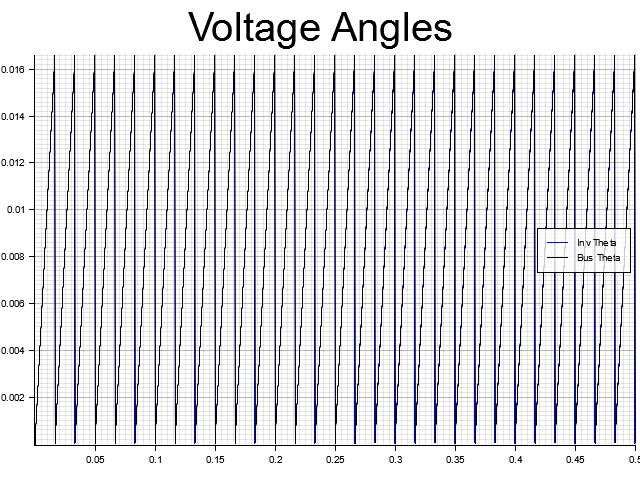
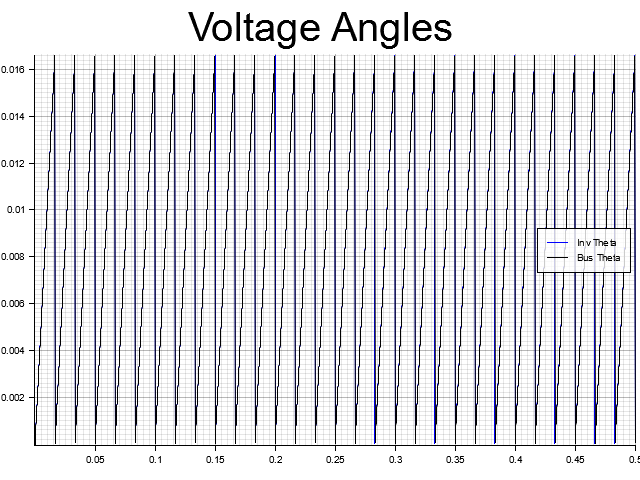
Test sims with 22-bit fractional 32-bit fixed-point dVOC states

diff --git a/src/main.rs b/src/main.rs
@@ -10,7 +10,7 @@ use unifi_gfm::sims::*;
 use unifi_gfm::constants::*;
 use fixed::traits::FromFixed;
 type FxdSim = fixed::types::I38F26;
-type FxdNum = fixed::types::I38F26; // TODO: Test with 32-bit fixed-point number and figure out what is overflowing (Seems to be related to current dynamics)
+type FxdNum = fixed::types::I10F22; // TODO: Test with 32-bit fixed-point number and figure out what is overflowing (Seems to be related to current dynamics)
 // TODO: Test how fast this runs with the package having a single fixed-point value selected (No / fewer conversions to fixed). 
 // Currently running this sim with I32F32 values takes ~20s
 
@@ -84,7 +84,7 @@ fn main() -> Result<(), Box<dyn std::error::Error>> {
         delta = (inv.x[(1)] - FxdNum::from_fixed(bus.x[(1)])).lossy_into();
         if delta > (1. / f_nom) {
             delta = -(1. / f_nom) + delta;
-        } else if delta < -(1. / f_nom - 1.0e-4) {
+        } else if delta < -(1. / f_nom - 5.0e-4) {
             delta = (1. / f_nom) + delta;
         }
         delta_values[step as usize] = (t, delta);

diff --git a/src/bin/droop_sim.rs b/src/bin/droop_sim.rs
@@ -10,7 +10,7 @@ use unifi_gfm::sims::*;
 use unifi_gfm::constants::*;
 use fixed::traits::FromFixed;
 type FxdSim = fixed::types::I32F32;
-type FxdNum = fixed::types::I32F32; // TODO: Test with 32-bit fixed-point number and figure out what is overflowing (Seems to be related to current dynamics)
+type FxdNum = fixed::types::I10F22;  // TODO: Work on getting 32-bit fixed-point numbers to be accurate enough for the droop controller
 
 const VOLTAGE_FILE_NAME: &'static str = "images/droop_sim_voltage.png";
 const THETA_FILE_NAME: &'static str = "images/droop_sim_thetas.png";
@@ -78,7 +78,7 @@ fn main() -> Result<(), Box<dyn std::error::Error>> {
         delta = (inv.x[(1)] - FxdNum::from_fixed(bus.x[(1)])).lossy_into();
         if delta > (1. / f_nom) {
             delta = -(1. / f_nom) + delta;
-        } else if delta < -(1. / f_nom - 1.0e-4) {
+        } else if delta < -(1. / f_nom - 5.0e-4) {
             delta = (1. / f_nom) + delta;
         }
         delta_values[step as usize] = (t, delta);
